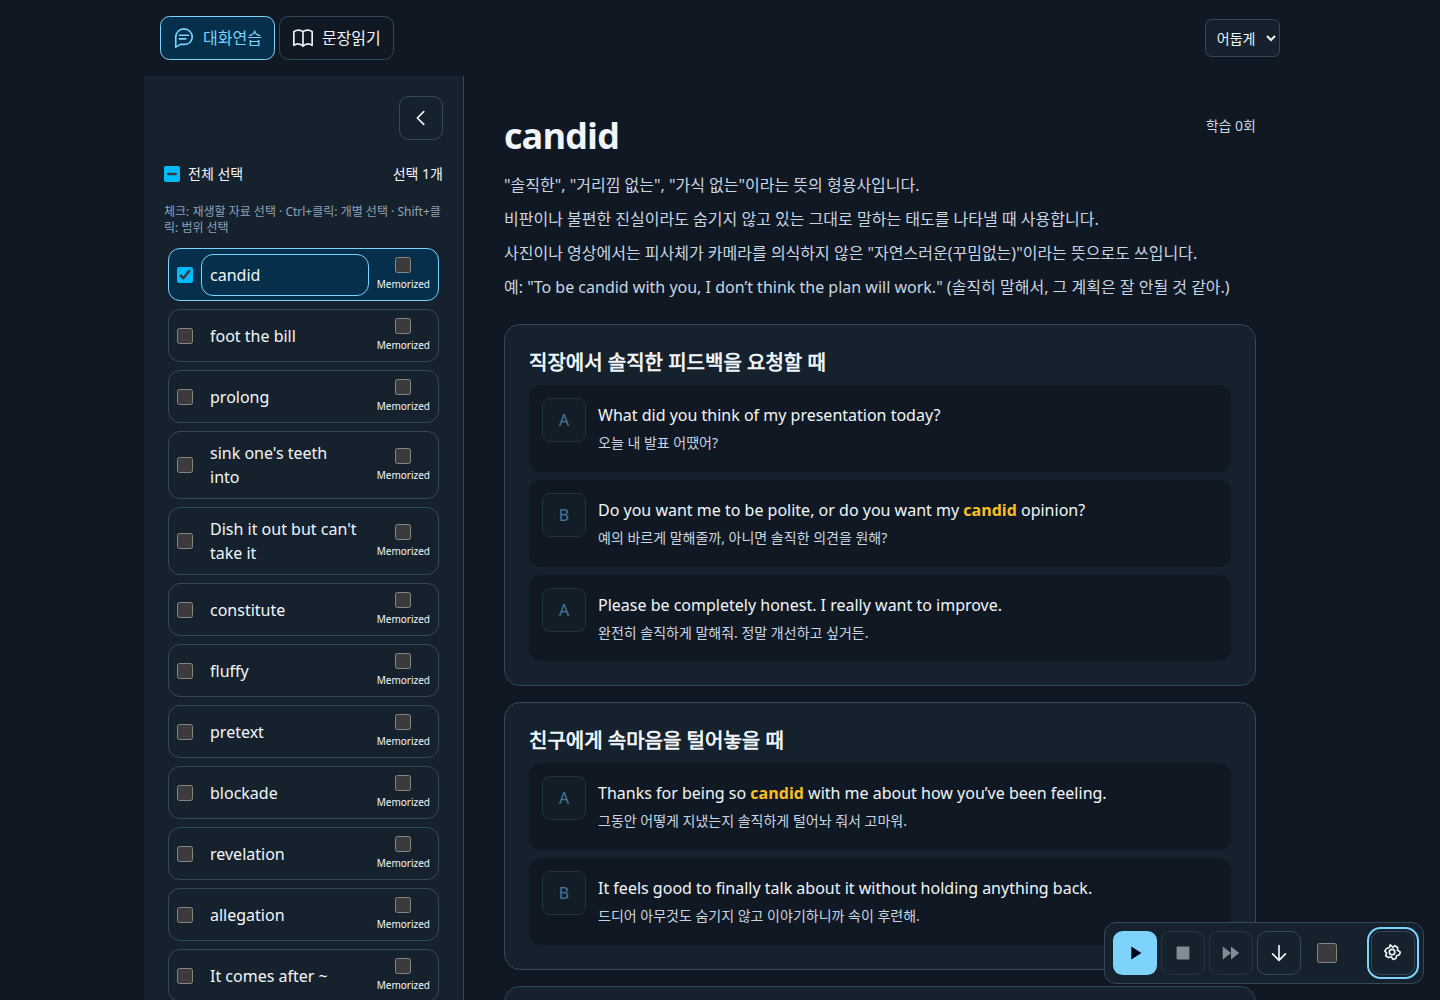
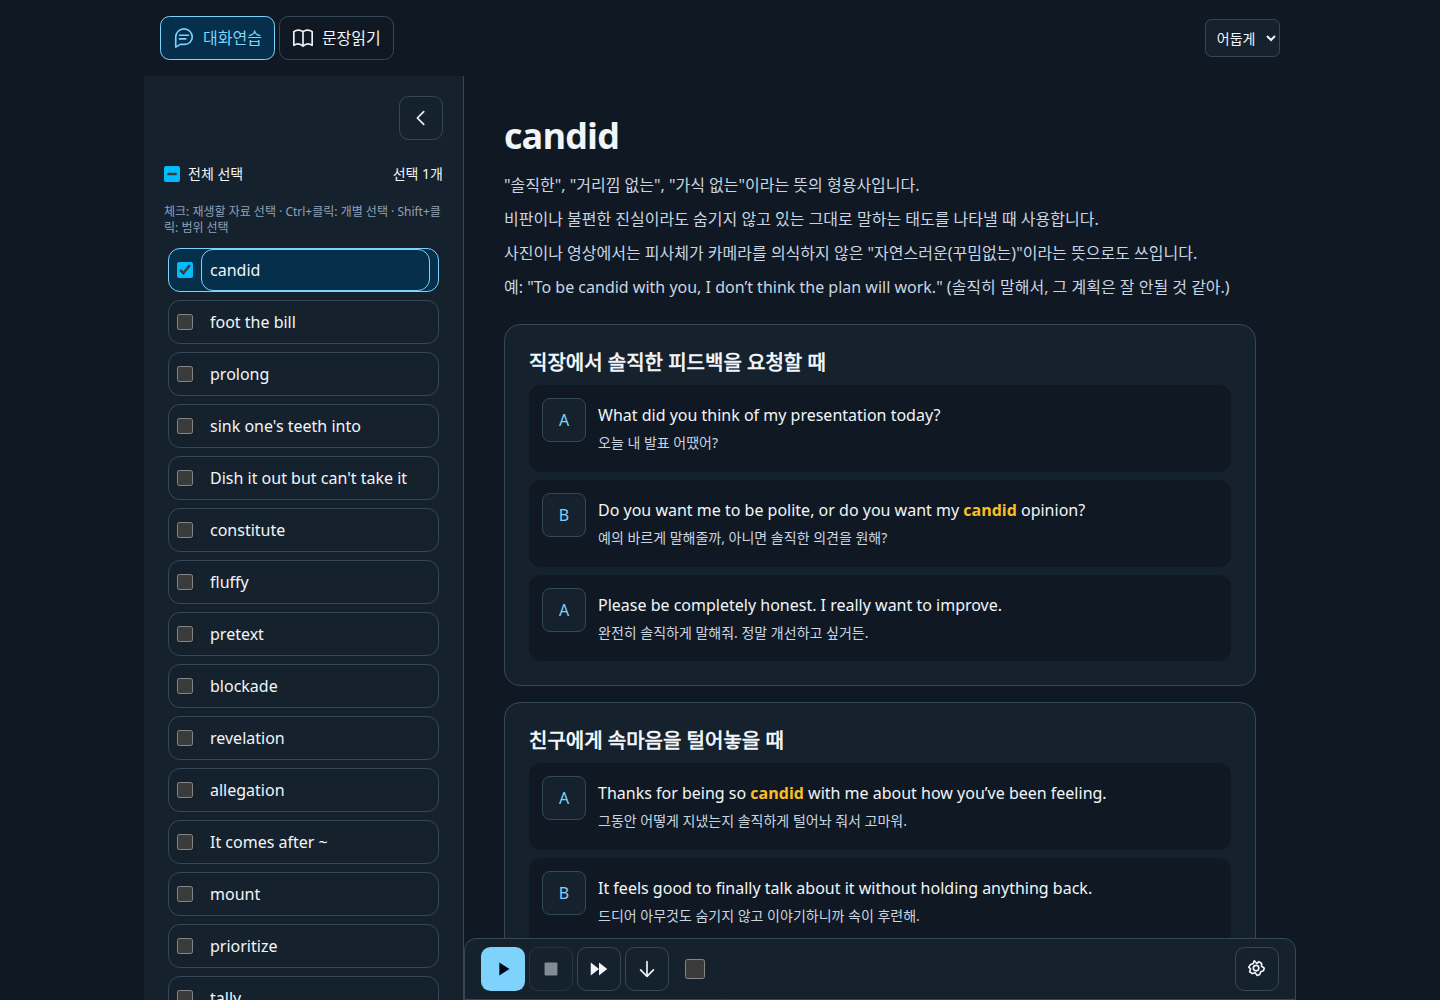
재생 바를 본문 너비로 확장하고 학습 횟수와 암기 관리를 관리자에게 제한

diff --git a/wordStudy_/src/main.tsx b/wordStudy_/src/main.tsx
@@ -30,8 +30,8 @@ function Paragraphs({ values }: { values: string[] }) {
   return values.map((value, index) => <p key={index} className="mb-2 leading-relaxed text-slate-300">{value}</p>);
 }
 
-function LessonView({ lesson, save, startSelected, autoPlay, onComplete, selectionCount, order, changeOrder, settings, changeSettings, repeat, changeRepeat, onStudied }: {
-  onStudied: () => void;
+function LessonView({ lesson, save, startSelected, autoPlay, onComplete, selectionCount, order, changeOrder, settings, changeSettings, repeat, changeRepeat, onStudied, showStudyCount }: {
+  onStudied?: () => void; showStudyCount: boolean;
   repeat: boolean; changeRepeat: (repeat: boolean) => void;
   lesson: Lesson; save: (position: number) => void;
   startSelected: () => boolean;
@@ -80,7 +80,7 @@ function LessonView({ lesson, save, startSelected, autoPlay, onComplete, selecti
       <div className="mb-6 break-words">
         <div className="mb-4 flex items-start justify-between gap-3">
           <h2 id="lesson-title" className="min-w-0 text-3xl font-bold tracking-tight sm:text-4xl">{lesson.title}</h2>
-          <p className="ml-auto shrink-0 text-right text-sm text-slate-300" aria-live="polite">학습 {lesson.studyCount ?? 0}회</p>
+          {showStudyCount && <p className="ml-auto shrink-0 text-right text-sm text-slate-300" aria-live="polite">학습 {lesson.studyCount ?? 0}회</p>}
         </div>
         <Paragraphs values={lesson.description} />
       </div>
@@ -318,7 +318,7 @@ function App() {
   const scope = user?.sub ?? 'anonymous';
   const [page, setPage] = useState<'dialogues' | 'sentences'>('dialogues');
   const [lessons, setLessons] = useState<Lesson[]>([]);
-  const orderedLessons = [...lessons].sort((a, b) => Number(!!a.memorized) - Number(!!b.memorized));
+  const orderedLessons = user?.admin ? [...lessons].sort((a, b) => Number(!!a.memorized) - Number(!!b.memorized)) : lessons;
   const [memorizedPending, setMemorizedPending] = useState<Set<string>>(new Set());
   const [selectedId, setSelectedId] = useState('');
   const [session, setSession] = useState(0);
@@ -378,6 +378,7 @@ function App() {
   }
 
   function recordCompletion(id: string) {
+    if (!user?.admin) return;
     const bytes = crypto.getRandomValues(new Uint8Array(16));
     bytes[6] = (bytes[6] & 15) | 64;
     bytes[8] = (bytes[8] & 63) | 128;
@@ -389,6 +390,7 @@ function App() {
   }
 
   async function toggleMemorized(id: string, memorized: boolean) {
+    if (!user?.admin) return;
     setMemorizedPending(items => new Set(items).add(id));
     try {
       const result = await api<{ memorized: boolean }>('memorized', 'PUT', { id, memorized });
@@ -504,7 +506,7 @@ function App() {
             <nav aria-label="대화 목록" className="lesson-list min-h-0 flex-1 space-y-2 overflow-y-auto p-1">
               {orderedLessons.map((lesson, index) => (
                 <Fragment key={lesson.id}>
-                {lesson.memorized && (index === 0 || !orderedLessons[index - 1].memorized) && (
+                {user?.admin && lesson.memorized && (index === 0 || !orderedLessons[index - 1].memorized) && (
                   <div role="separator" aria-label="Memorized" className="flex items-center gap-3 py-3 text-xs text-slate-400">
                     <span className="h-px flex-1 bg-edge" /><span>Memorized</span><span className="h-px flex-1 bg-edge" />
                   </div>
@@ -522,13 +524,13 @@ function App() {
                   {lesson.title}
                   {lesson.date && <span className="mt-1 block text-xs text-slate-400">{dateFormat.format(new Date(lesson.date))}</span>}
                 </button>
-                <label className="flex shrink-0 flex-col items-center gap-1 py-2 text-[10px]">
+                {user?.admin && <label className="flex shrink-0 flex-col items-center gap-1 py-2 text-[10px]">
                   <input type="checkbox" className="h-4 w-4 accent-sky-400"
                     aria-label={`${lesson.title} Memorized`} checked={!!lesson.memorized}
                     disabled={memorizedPending.has(lesson.id)}
                     onChange={event => { void toggleMemorized(lesson.id, event.target.checked); }} />
                   Memorized
-                </label>
+                </label>}
                 </div>
                 </Fragment>
               ))}
@@ -591,11 +593,11 @@ function App() {
         <label className="ml-auto hidden text-sm md:block"><span className="sr-only">테마</span><select aria-label="테마" value={settings.theme} onChange={event => { changeSettings({ ...settings, theme: event.target.value }); notify(`${({ dark: '어둡게', light: '밝게', system: '시스템' } as Record<string, string>)[event.target.value]} 테마`); }}><option value="dark">어둡게</option><option value="light">밝게</option><option value="system">시스템</option></select></label>
       </header>
       {page === 'dialogues' && (status || progressError) && <p role="status" className="mobile-message px-4 text-sm text-slate-300">{progressError || status}</p>}
-      <div className={`study-layout ${sidebarCollapsed ? 'sidebar-collapsed' : ''}`}>
-      <aside className="desktop-lessons md:sticky md:top-0 md:flex md:h-dvh md:flex-col md:border-r md:border-edge md:bg-panel">
+      <div className={`study-layout ${page === 'dialogues' ? `has-lessons ${sidebarCollapsed ? 'sidebar-collapsed' : ''}` : 'reader-layout'}`}>
+      {page === 'dialogues' && <aside className="desktop-lessons md:sticky md:top-0 md:flex md:h-dvh md:flex-col md:border-r md:border-edge md:bg-panel">
         <div className="sidebar-toggle-row"><button className="icon-button border border-edge" aria-label={sidebarCollapsed ? '목록 펼치기' : '목록 접기'} title={sidebarCollapsed ? '목록 펼치기' : '목록 접기'} aria-expanded={!sidebarCollapsed} aria-controls="desktop-lesson-list" onClick={() => setSidebarCollapsed(value => !value)}><Icon name={sidebarCollapsed ? 'expand' : 'collapse'} /></button></div>
         <div id="desktop-lesson-list" className="sidebar-list-content" hidden={sidebarCollapsed}>{lessonList()}</div>
-      </aside>
+      </aside>}
       <dialog ref={picker} aria-labelledby="lesson-picker-title" className="lesson-picker study-controls m-auto w-[calc(100%-2rem)] max-w-lg rounded-2xl border border-edge bg-panel p-4 text-slate-100 backdrop:bg-black/60" onClick={event => {
         if (event.target === event.currentTarget) {
           const bounds = event.currentTarget.getBoundingClientRect();
@@ -613,7 +615,7 @@ function App() {
           lesson={{ ...selected, position: positions.current.get(selected.id) ?? selected.position }}
           startSelected={startSelected} repeat={repeat} changeRepeat={setRepeat}
           selectionCount={playlist.length} order={order} changeOrder={setOrder} settings={settings} changeSettings={changeSettings}
-          autoPlay={autoPlay} onComplete={playPreviousLesson} onStudied={() => recordCompletion(selected.id)}
+          autoPlay={autoPlay} onComplete={playPreviousLesson} showStudyCount={!!user?.admin} onStudied={user?.admin ? () => recordCompletion(selected.id) : undefined}
           save={position => save(selected.id, position)} />
       )}
       </div>

diff --git a/wordStudy_/server/index.ts b/wordStudy_/server/index.ts
@@ -3,7 +3,7 @@ import { join, resolve } from 'node:path';
 import Fastify from 'fastify';
 import fastifyStatic from '@fastify/static';
 import { migrate } from 'drizzle-orm/node-postgres/migrator';
-import { basePath, publicOrigin, route } from './paths.ts';
+import { basePath, route } from './paths.ts';
 import { parseLesson } from '../shared/lesson.ts';
 import { identity, registerAuth, requireUser, requireAdmin } from './auth.ts';
 import { db, listLessons, pool, saveProgress, importLesson, recordStudy, saveMemorized } from './store.ts';
@@ -15,7 +15,11 @@ app.get(route('/api/health'), async () => {
   await pool.query('SELECT 1');
   return { ok: true };
 });
-app.get(route('/api/lessons'), async (request, reply) => reply.header('cache-control', 'no-store').send(await listLessons((await identity(request))?.sub)));
+app.get(route('/api/lessons'), async (request, reply) => {
+  const user = await identity(request);
+  const items = await listLessons(user?.sub);
+  return reply.header('cache-control', 'no-store').send(user?.admin ? items : items.map(({ studyCount, memorized, ...lesson }) => lesson));
+});
 
 app.put<{ Body: { id: string; position: number } }>(route('/api/progress'), {
   schema: { body: {
@@ -30,35 +34,27 @@ app.put<{ Body: { id: string; position: number } }>(route('/api/progress'), {
   return { ok: true };
 });
 
-// 공개 학습 화면의 익명 사용자도 공통 학습 횟수를 기록한다.
+// 관리자만 공통 학습 횟수를 기록한다. 인증·권한·CSRF를 모두 확인한다.
 app.post<{ Body: { id: string; eventId: string } }>(route('/api/study-completions'), {
   schema: { body: {
     type: 'object', required: ['id', 'eventId'], additionalProperties: false,
     properties: { id: { type: 'string', maxLength: 225 }, eventId: { type: 'string', format: 'uuid' } },
   } },
 }, async (request, reply) => {
-  const origin = request.headers.origin;
-  const sameOrigin = `${request.protocol}://${request.headers.host}`;
-  if (origin !== sameOrigin && origin !== publicOrigin) {
-    return reply.code(403).send({ message: '요청 출처가 올바르지 않습니다.' });
-  }
+  if (!await requireAdmin(request, reply)) return;
   const count = await recordStudy(request.body.id, request.body.eventId);
   if (count === undefined) return reply.code(404).send({ message: '자료를 찾을 수 없습니다.' });
   return { studyCount: count };
 });
 
-// 학습 횟수와 동일하게 공개 학습 화면에서 공통 암기 상태를 저장한다.
+// 암기 상태 변경도 관리자에게만 허용한다.
 app.put<{ Body: { id: string; memorized: boolean } }>(route('/api/memorized'), {
   schema: { body: {
     type: 'object', required: ['id', 'memorized'], additionalProperties: false,
     properties: { id: { type: 'string', maxLength: 225 }, memorized: { type: 'boolean' } },
   } },
 }, async (request, reply) => {
-  const origin = request.headers.origin;
-  if (origin !== `${request.protocol}://${request.headers.host}`
-    && origin !== publicOrigin) {
-    return reply.code(403).send({ message: '요청 출처가 올바르지 않습니다.' });
-  }
+  if (!await requireAdmin(request, reply)) return;
   const { id, memorized } = request.body;
   if (!await saveMemorized(id, memorized)) return reply.code(404).send({ message: '자료를 찾을 수 없습니다.' });
   return { memorized };

diff --git a/wordStudy_/src/style.css b/wordStudy_/src/style.css
@@ -74,9 +74,10 @@ html { scroll-padding-bottom:calc(100px + env(safe-area-inset-bottom)); }
   .study-header { gap:12px; padding:16px; }
   .menu-button { padding:0 12px; }
   .mobile-picker-trigger,.mobile-message { display:none; }
-  .study-layout { --sidebar-width:20rem; grid-template-columns:var(--sidebar-width) minmax(0,1fr); }
-  .study-layout.sidebar-collapsed { --sidebar-width:64px; }
+  .study-layout { --sidebar-width:0px; --layout-margin:max(0px,calc((100vw - 72rem)/2)); grid-template-columns:minmax(0,1fr); }
+  .study-layout.has-lessons { --sidebar-width:20rem; grid-template-columns:var(--sidebar-width) minmax(0,1fr); }
+  .study-layout.has-lessons.sidebar-collapsed { --sidebar-width:64px; }
   .desktop-lessons { display:flex; padding:20px; }
   .sidebar-collapsed .desktop-lessons { padding:10px; }
-  .playback-panel { position:fixed; inset:auto 16px max(16px,env(safe-area-inset-bottom)) auto; width:320px; max-width:calc(100vw - var(--sidebar-width) - 32px); border:1px solid var(--color-edge); border-radius:12px; padding:8px; }
+  .playback-panel { position:fixed; inset:auto var(--layout-margin) 0 calc(var(--layout-margin) + var(--sidebar-width)); width:auto; max-width:none; border:1px solid var(--color-edge); border-radius:12px 12px 0 0; padding:8px 16px max(8px,env(safe-area-inset-bottom)); }
 }

diff --git a/README.md b/README.md
@@ -56,12 +56,12 @@ Google 관리자 설정과 운영 명령은 [서버 설정 안내](wordStudy_/RE
 - **내 역할:** 내 화자의 대사는 같은 음성·속도로 **볼륨 0**으로 재생합니다. 해당 문장 아래 진행바가 나타나고, 음소거 재생이 끝나면 **3초를 더 기다린 뒤 자동으로 다음 문장**으로 넘어갑니다. 상대 대사는 평소 볼륨으로 재생합니다. 문장 반복 설정은 이 과정을 반복하며, 자료를 바꾸면 역할은 초기화됩니다.
 - **진행바:** 브라우저 음성은 시작 전에 정확한 전체 길이를 제공하지 않으므로 음소거 재생 중에는 진행 중으로 표시합니다. 종료 이벤트에서 실제 재생 시간을 확인한 뒤 전체 시간에 3초를 더한 진행바를 채웁니다. 추가 시간 중 일시정지는 남은 시간을 유지하며, 음성 재생 중 일시정지는 이어 듣기 때 현재 문장 처음부터 다시 시작합니다. 정지·다음 문장·자료 변경은 이전 타이머를 취소합니다.
 - **자료 선택·연속 재생:** 리스트에서 제목을 눌러 자료를 열고 체크한 자료만 이어 읽습니다. 중복 선택 콤보박스는 없습니다. 순서는 재생 바의 **다음 문장** 옆에서 아래→위 또는 위→아래로 선택합니다. React는 화살표 아이콘 버튼으로 방향을 바꾸고, HTML은 선택 상자를 사용합니다. 기본 아래→위이며 체크와 순서는 새로고침 후에도 남습니다.
-- **React 화면 공간:** 재생·일시정지·정지·다음 문장·재생 방향·학습 설정은 아이콘으로 표시하고, 반복 재생은 체크박스만 표시합니다. 재생 바는 모바일·데스크톱 모두 한 줄이며 선택 개수 안내는 표시하지 않습니다. 데스크톱에서는 화면 오른쪽 아래에 고정하고 마지막 문장을 가리지 않도록 콘텐츠 아래 여백을 확보합니다. 왼쪽 목록의 화살표로 목록을 접거나 펼칠 수 있고 접힘 상태는 저장됩니다. 모바일 자료 목록은 상단 목록 아이콘의 **자료 선택** 팝업에서 열고, 학습 메뉴·테마도 한 줄 아이콘으로 표시합니다. 체크·방향·테마 변경은 토스트로 알려줍니다. 아이콘에는 한국어 접근성 이름과 툴팁이 있습니다. `htmlVersion/`의 화면은 유지합니다.
+- **React 화면 공간:** 재생·일시정지·정지·다음 문장·재생 방향·학습 설정은 아이콘으로 표시하고, 반복 재생은 체크박스만 표시합니다. 재생 바는 모바일·데스크톱 모두 한 줄이며 선택 개수 안내는 표시하지 않습니다. 데스크톱에서는 본문 영역 전체 너비로 화면 아래에 고정하고 마지막 문장을 가리지 않도록 콘텐츠 아래 여백을 확보합니다. 대화연습에서 왼쪽 목록의 화살표로 목록을 접거나 펼칠 수 있고 접힘 상태는 저장됩니다. 문장읽기에서는 왼쪽 패널을 제거하고 본문 전체 너비를 사용합니다. 모바일 자료 목록은 상단 목록 아이콘의 **자료 선택** 팝업에서 열고, 학습 메뉴·테마도 한 줄 아이콘으로 표시합니다. 체크·방향·테마 변경은 토스트로 알려줍니다. 아이콘에는 한국어 접근성 이름과 툴팁이 있습니다. `htmlVersion/`의 화면은 유지합니다.
 - **React 한국어 설명 읽기:** 학습 설정의 **한국어 설명 읽기**는 기본으로 켜져 있으며 이전 설정에도 기본 적용됩니다. 재생·자동 연속 재생 시 상단 단어 설명을 `ko-KR` 음성으로 먼저 읽고 영어 대사로 이어집니다. 화자 버튼을 누르면 해당 영어 대사로 바로 재생하며, 설명 중 다음 문장은 첫 재생 대상 대사로 넘어갑니다. 설명은 학습 횟수·문장 반복에 포함하지 않습니다. 일시정지 후에는 설명 처음부터 다시 읽으며, 설정을 끄면 다음 재생부터 설명을 생략합니다. 한국어 음성 제공 여부는 기기에 따라 다르고, 음성 엔진이 한국어 오류를 반환하면 영어 대사로 이어갑니다. `htmlVersion/`에는 적용하지 않습니다.
 - **학습 설정:** 재생 바 맨 오른쪽 **학습 설정** 버튼으로 팝업을 엽니다. 속도·문장 반복·가리기·내 역할·화면 유지를 조절하며, 닫기·Esc·팝업 바깥 클릭으로 닫습니다.
 - **상단 메뉴·테마:** 화면 맨 위에 **대화연습 / 문장읽기**와 테마 선택을 배치합니다. 별도의 영어 대화 연습 제목은 표시하지 않습니다.
 - **진도:** 일시정지 후 현재 문장 처음부터 이어 읽습니다. 정지·끝까지 재생하면 첫 문장으로 돌아갑니다. 정지 버튼은 페이지 최상단 대신 현재 단어·숙어 제목이 화면 위에 보이도록 스크롤합니다. React의 스페이스바 제어는 입력란·대화상자의 기본 동작을 유지합니다.
-- **React 학습 횟수:** 단어 제목 오른쪽에 DB에 저장한 공통 학습 횟수를 표시합니다. 첫 문장부터 마지막 문장까지 재생을 마칠 때마다 1회 증가하며, 일시정지·이어 듣기는 한 학습으로 유지합니다. 중간부터 시작하거나 다음 문장으로 건너뛰거나 정지한 재생은 집계하지 않습니다. 반복 재생은 완주할 때마다 집계합니다. 최초 마이그레이션 당시 등록된 자료는 1회, 이후 추가 자료는 0회로 시작하며 자료 갱신·서버 재시작 시 횟수를 보존합니다. 익명 학습도 동일한 공통 횟수에 반영합니다. `htmlVersion/`은 DB 학습 기록을 사용하지 않습니다.
+- **React 학습 횟수:** 관리자로 로그인한 경우에만 단어 제목 오른쪽에 DB에 저장한 학습 횟수를 표시합니다. 관리자가 첫 문장부터 마지막 문장까지 재생을 마칠 때마다 1회 증가하며, 일시정지·이어 듣기는 한 학습으로 유지합니다. 중간부터 시작하거나 다음 문장으로 건너뛰거나 정지한 재생은 집계하지 않습니다. 반복 재생은 완주할 때마다 집계합니다. 최초 마이그레이션 당시 등록된 자료는 1회, 이후 추가 자료는 0회로 시작하며 자료 갱신·서버 재시작 시 횟수를 보존합니다. 비로그인·일반 계정의 학습은 횟수를 올리지 않습니다. `Memorized` 체크박스·구분선·암기 기준 정렬도 관리자에게만 제공하며, 일반 사용자 API 응답에는 학습 횟수·암기 상태를 포함하지 않습니다. 횟수 기록·암기 변경 API는 관리자 인증·권한·CSRF를 검사합니다. `htmlVersion/`은 DB 학습 기록을 사용하지 않습니다.
 - **React 대화연습 반복 재생:** 재생 바의 **반복 재생**을 켜면 선택한 자료를 지정한 방향으로 끝까지 읽고 처음부터 다시 재생합니다. 선택한 자료가 없거나 현재 자료가 선택 목록 밖이면 현재 자료를 반복합니다. 재생 중에도 반복을 켜거나 끌 수 있으며, 정지 버튼으로 즉시 멈춥니다. `htmlVersion/`에는 이 대화연습 반복 옵션이 없습니다.
 - **문장읽기:** 원문 붙여넣기·반복·속도·화면 유지와 브라우저에 원문 저장을 지원합니다.
 

diff --git a/wordStudy_/README.md b/wordStudy_/README.md
@@ -42,6 +42,8 @@ Vite 개발 서버는 `/api`를 43871 백엔드로 프록시합니다. 관리자
 - `POST /api/auth/login` (아이디·비밀번호), `GET /api/auth/session`, `GET /api/auth/login`, `GET /api/auth/callback`, `POST /api/auth/logout`
 - `POST /api/import`: `name`, `modified`, `data`, 선택 `policy: update|skip`; 결과 `added|updated|unchanged|skipped`
 - `PUT /api/progress`: 로그인 계정의 `id`, `position`; 익명은 브라우저에 저장
+- `POST /api/study-completions`: 관리자 완주 기록; `id`, `eventId`
+- `PUT /api/memorized`: 관리자 암기 상태 변경; `id`, `memorized`
 - `POST /api/admin/claim-progress`: 관리자 자신의 기존 공동 진도 복사
 
 상태를 변경하는 인증 요청에는 동일한 Origin과 세션에서 받은 `X-CSRF-Token`이 필요합니다. OAuth 토큰·클라이언트 비밀값은 브라우저 저장소에 넣지 않습니다.
@@ -88,4 +90,4 @@ Vite 개발 서버는 `/api`를 43871 백엔드로 프록시합니다. 관리자
 
 파일·폴더 등록은 파일명과 관계없이 메인 `title`을 먼저 비교하고, `conversations`의 제목을 순서대로 비교합니다. 대화 개수와 모든 제목이 같으면 본문·날짜가 달라도 `skipped`로 건너뜁니다. 제목 목록이 다르면 기존 파일명에 대한 `update|skip` 정책을 적용하고, 새 파일명은 등록합니다.
 
-대화 목록의 `Memorized` 체크박스는 공통 암기 상태를 DB에 저장합니다(기본 false). 미암기 자료가 위에, 암기 자료는 `Memorized` 구분선 아래에 표시되며 각 영역의 기존 날짜 정렬을 유지합니다. 체크 해제 시 위 영역으로 돌아갑니다. 공개 학습 화면에서도 변경할 수 있고 새로고침·재시작·자료 갱신 후 유지됩니다. `PUT /api/memorized`는 `{ id, memorized }`를 받으며 동일 출처 요청만 허용합니다.
+대화 목록의 `Memorized` 체크박스는 공통 암기 상태를 DB에 저장합니다(기본 false). 미암기 자료가 위에, 암기 자료는 `Memorized` 구분선 아래에 표시되며 각 영역의 기존 날짜 정렬을 유지합니다. 체크 해제 시 위 영역으로 돌아갑니다. 관리자로 로그인한 경우에만 학습 횟수·암기 체크박스·구분선·암기 기준 정렬을 표시하며 새로고침·재시작·자료 갱신 후 상태를 유지합니다. 비로그인·일반 계정에는 표시하지 않고, 해당 API 응답에서도 학습 횟수·암기 상태를 제외합니다. 일반 사용자의 학습은 횟수에 반영하지 않습니다. `PUT /api/memorized`는 `{ id, memorized }`를 받으며 관리자 인증·권한·동일 출처·CSRF를 모두 확인합니다.
